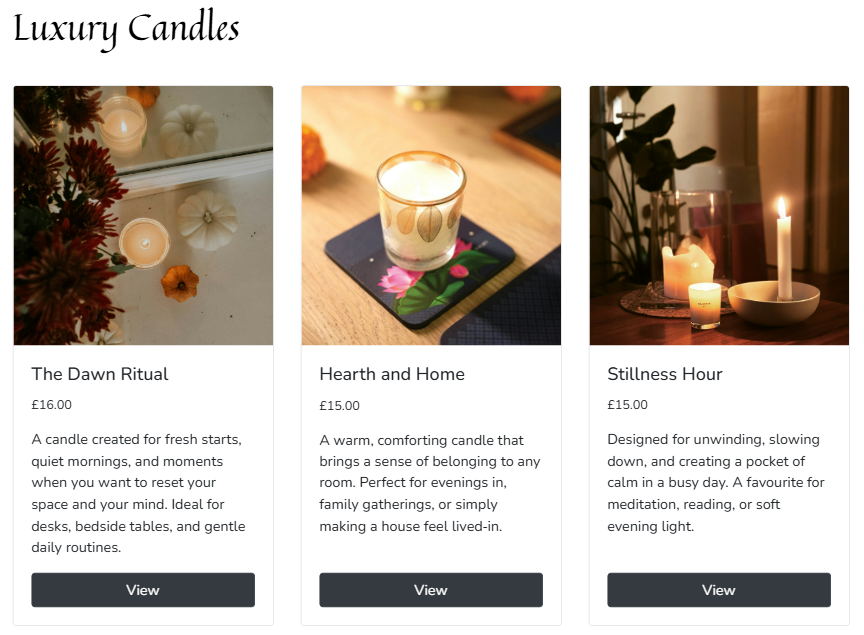
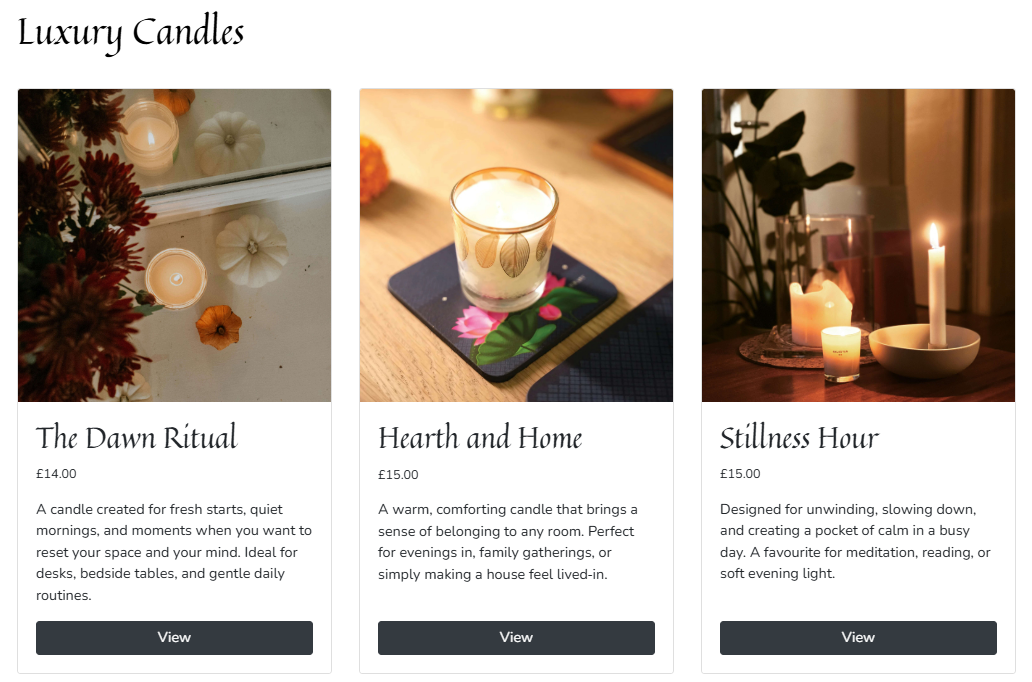
docs: put doc images behind accordions

diff --git a/docs/TESTING.md b/docs/TESTING.md
@@ -400,7 +400,7 @@ I tested accessibility using the [WAVE](https://wave.webaim.org/) accessibility 
 <details>
 <summary>Order Confirmation - Desktop</summary>
 
-![Home - Mobile](./images/testing/responsive/user-profile-desktop.png)
+![Home - Mobile](./images/testing/responsive/order-confirmation-desktop.png)
 
 </details>
 
@@ -504,51 +504,106 @@ There were various validation errors and warnings in the site's HTML, but all er
 
 #### Homepage HTML Validation
 
+<details>
+<summary>Screenshot</summary>
+
 ![Homepage HTML validation](./images/testing/validation/html-homepage-success.png)
+
+</details>
 
 #### Product List HTML Validation
 
+<details>
+<summary>Screenshot</summary>
+
 ![Product list HTML validation](./images/testing/validation/html-product-list.png)
+
+</details>
 
 #### Product Detail HTML Validation
 
+<details>
+<summary>Screenshot</summary>
+
 ![Product detail HTML validation](./images/testing/validation/html-product-detail.png)
+
+</details>
 
 #### Add Product HTML Validation
 
+<details>
+<summary>Screenshot</summary>
+
 ![Add Product HTML validation](./images/testing/validation/html-add-product.png)
+
+</details>
 
 #### Edit Product HTML Validation
 
+<details>
+<summary>Screenshot</summary>
+
 ![Edit Product HTML validation](./images/testing/validation/html-edit-product.png)
+
+</details>
 
 #### About HTML Validation
 
+<details>
+<summary>Screenshot</summary>
+
 ![About HTML validation](./images/testing/validation/html-about.png)
+
+</details>
 
 #### Shopping Basket HTML Validation
 
+<details>
+<summary>Screenshot</summary>
+
 ![Cart HTML validation](./images/testing/validation/html-cart.png)
+
+</details>
 
 #### Checkout HTML Validation
 
+<details>
+<summary>Screenshot</summary>
+
 ![Checkout HTML validation](./images/testing/validation/html-checkout.png)
+
+</details>
 
 #### Order Confirmation HTML Validation
 
 For the order confirmation page, I had to validate the source code rather than the URL, as the validator was unable to reload the page.
 
+<details>
+<summary>Screenshot</summary>
+
 ![Order Confirmation HTML validation](./images/testing/validation/html-order-confirmation.png)
+
+</details>
 
 #### User Profile HTML Validation
 
+<details>
+<summary>Screenshot</summary>
+
 ![User Profile HTML validation](./images/testing/validation/html-user-profile.png)
+
+</details>
 
 #### 404 Error HTML Validation
 
 For the 404 page, I had to validate the source code rather than the URL, as the validator was unable to load an invalid URL.
 
+<details>
+<summary>Screenshot</summary>
+
 ![404 Error HTML validation](./images/testing/validation/html-404.png)
+
+</details>
 
 ### CSS Validation
 
@@ -558,15 +613,30 @@ There were no errors or warnings.
 
 #### base.css Validation
 
+<details>
+<summary>Screenshot</summary>
+
 ![Base css validation](./images/testing/validation/css-base.png)
+
+</details>
 
 #### checkout.css Validation
 
+<details>
+<summary>Screenshot</summary>
+
 ![Checkout css validation](./images/testing/validation/css-checkout.png)
+
+</details>
 
 #### profile.css Validation
 
+<details>
+<summary>Screenshot</summary>
+
 ![Profiles css validation](./images/testing/validation/css-profiles.png)
+
+</details>
 
 ### JavaScript Validation
 
@@ -576,19 +646,39 @@ There were no errors. There were warnings related to missing variables for $ (JQ
 
 #### cart.html inline JS
 
+<details>
+<summary>Screenshot</summary>
+
 ![cart.html JS validation](./images/testing/validation/js-cart.png)
+
+</details>
 
 #### base.html inline JS
 
+<details>
+<summary>Screenshot</summary>
+
 ![base.html JS validation](./images/testing/validation/js-base.png)
+
+</details>
 
 #### stripe_elements.js
 
+<details>
+<summary>Screenshot</summary>
+
 ![stripe_elements.js validation](./images/testing/validation/js-stripe-elements.png)
+
+</details>
 
 #### profile.js
 
+<details>
+<summary>Screenshot</summary>
+
 ![profile.js validation](./images/testing/validation/js-profile.png)
+
+</details>
 
 ### Python Validation
 
@@ -596,7 +686,12 @@ Python code was validated using [flake8](https://pypi.org/project/flake8/).
 
 There were multiple errors relating to unused imports. These errors are acceptable as they're caused by default code in Django's python files that haven't been changed as part of the project.
 
+<details>
+<summary>Screenshot</summary>
+
 ![Python flake8 validation](./images/testing/validation/python-flake8.png)
+
+</details>
 
 ## Lighthouse
 

diff --git a/README.md b/README.md
@@ -271,7 +271,7 @@ Note: The BlogPost table didn't make it into the final design, as the blog funct
 
 ### Languages
 
-- [CSS](https://developer.mozilla.org/en-US/docs/Web/HTML)
+- [CSS](https://developer.mozilla.org/en-US/docs/Web/CSS)
 - [HTML](https://developer.mozilla.org/en-US/docs/Web/HTML)
 - [JavaScript](https://developer.mozilla.org/en-US/docs/Web/JavaScript)
 - [Python](https://www.python.org/)
@@ -364,7 +364,7 @@ Note: The BlogPost table didn't make it into the final design, as the blog funct
 ![Product list feature](./docs/images/features/product-list.png)
 
 - The product page contains a page heading and a list of all products.
-- This section's main heading uses the site's custom heading font and is in black.
+- This section's headings use the site's custom heading font and are in black.
 - Individual products are shown in a "card" format, with each card containing the product's image, title, price, description and a button to view the product details page.
 - This section lacks pagination, but the site currently has relatively few products so this isn't a major issue. Pagination can easily be added in a future release.
 - This section is useful to users as it allows them to quickly scan through all products on the site, so they can quickly learn more about and (hopefully) purchase their perfect candle.
